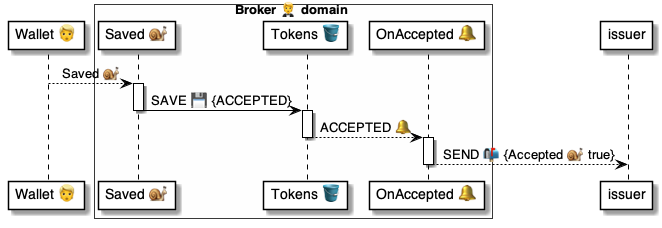
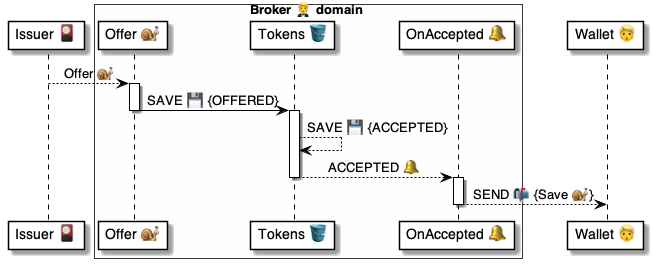
.

Changed region(s): [[0.0, 0.0, 1.0, 0.9825], [0.8576, 0.0614, 1.0, 0.2456], [0.1838, 0.6754, 0.2144, 0.7061]]

diff --git a/4 ⚙ Solution/41 🎭 Domain Roles/Issuers 🎴/🎴🅰 Issuer methods/Accepted 🤵🐌🎴/🎴 Accepted 🐌 msg.md b/4 ⚙ Solution/41 🎭 Domain Roles/Issuers 🎴/🎴🅰 Issuer methods/Accepted 🤵🐌🎴/🎴 Accepted 🐌 msg.md
@@ -21,7 +21,6 @@ Header:
 
 Body:
     Hook: <hook-uuid>
-    Token: <token-uuid>
 ```
 
 
@@ -30,8 +29,7 @@ Body:
 |Header |`From`|text| [Broker 🤵](<../../../../20 🧑🦰 UI/Brokers 🤵/🤵 Broker helper/🤵 Broker 🤲 helper.md>) | [`Offer@`](<../../../../20 🧑🦰 UI/Brokers 🤵/🤵🅰 Broker methods/Tokens 🎫 Offer 🎴🐌🤵/🤵 Offer 🐌 msg.md>)
 |       |`To`|string  | [Issuer 🎴](<../../🎴 Issuer/🎴🎭 Issuer role.md>) | [`Offer@`](<../../../../20 🧑🦰 UI/Brokers 🤵/🤵🅰 Broker methods/Tokens 🎫 Offer 🎴🐌🤵/🤵 Offer 🐌 msg.md>)
 ||`Subject`|text|`Token@Issuer` 
-| Body  | `Hook`| uuid | [Issuer 🎴](<../../🎴 Issuer/🎴🎭 Issuer role.md>) Hook | [`Offer@`](<../../../../20 🧑🦰 UI/Brokers 🤵/🤵🅰 Broker methods/Tokens 🎫 Offer 🎴🐌🤵/🤵 Offer 🐌 msg.md>)
-|| `Token`|text| [Token 🎫](<../../../../30 🧩 Data/Tokens 🎫/🎫 Token/🎫 Token.md>)  | [`Save@`](<../../../../20 🧑🦰 UI/Notifiers 📣/📣🅰 Notifier methods/Tokens 🎫 Save 🤵🐌📣/📣 Save 🐌 msg.md>) | [`Revise@`](<../../../../20 🧑🦰 UI/Brokers 🤵/🤵🅰 Broker methods/Tokens 🎫 Revise 🎴🐌🤵/🤵 Revise 🐌 msg.md>)
+| Body  | `Hook`| uuid | [Issuer 🎴](<../../🎴 Issuer/🎴🎭 Issuer role.md>) Hook | [`Offer@`](<../../../../20 🧑🦰 UI/Brokers 🤵/🤵🅰 Broker methods/Tokens 🎫 Offer 🎴🐌🤵/🤵 Offer 🐌 msg.md>) |  [`Revise@`](<../../../../20 🧑🦰 UI/Brokers 🤵/🤵🅰 Broker methods/Tokens 🎫 Revise 🎴🐌🤵/🤵 Revise 🐌 msg.md>)
 |
 
 

diff --git a/4 ⚙ Solution/20 🧑🦰 UI/Brokers 🤵/🤵🪣 Broker tables/Tokens 🎫 table/🪣🔔 4 Accepted/🤵 OnTokenAccepted 📃 handler.md b/4 ⚙ Solution/20 🧑🦰 UI/Brokers 🤵/🤵🪣 Broker tables/Tokens 🎫 table/🪣🔔 4 Accepted/🤵 OnTokenAccepted 📃 handler.md
@@ -13,22 +13,22 @@
 
 # Assert the inputs
 - ASSERT|$Token:
-    AllOf: ID, Issuer, Hook
-    UUIDs: ID, Hook
-    Texts: Issuer
+    AllOf: Wallet, Hook
+    UUIDs: Wallet, Hook
 
-# Inform the Issuer
+# Ask the wallet to save the token
 - SEND:
     Header:
-        To: $Token.Issuer
-        Subject: Accepted@Issuer
+        To: $Token.Wallet.Notifier
+        Subject: Save@Notifier
     Body:
-        Hook: $Token.Hook  # Hook @ Issuer
-        Token: $Token.ID   # Token.ID @ Broker
+        Wallet: $Token.Wallet.ID
+        Hook: $Token.Hook   # Hook at Issuer
+        Token: $Token.ID    # ID at Broker
 ```
 
 |Uses||
 |-|-
 | [Commands ⌘](<../../../../../35 💬 Chats/Scripts 📃/Command ⌘.md>) | [`ASSERT`](<../../../../../37 Scripts 📃/📃 Commands ⌘/⌘ for holders 🧠/ASSERT 🚦/🚦 ASSERT ⌘ cmd.md>) [`SEND`](<../../../../../37 Scripts 📃/📃 Commands ⌘/⌘ for messages 📨/SEND 📬/📬 SEND ⌘ cmd.md>)
-| [Messages 📨](<../../../../../30 🧩 Data/Messages 📨/📨 Message/📨 Message.md>) | [`Accepted@Issuer` 🅰 method](<../../../../../41 🎭 Domain Roles/Issuers 🎴/🎴🅰 Issuer methods/Accepted 🤵🐌🎴/🎴 Accepted 🐌 msg.md>)
+| [Messages 📨](<../../../../../30 🧩 Data/Messages 📨/📨 Message/📨 Message.md>) | [`Save@Notifier` 🅰 method](<../../../../Notifiers 📣/📣🅰 Notifier methods/Tokens 🎫 Save 🤵🐌📣/📣 Save 🐌 msg.md>)
 |

diff --git a/4 ⚙ Solution/20 🧑🦰 UI/Brokers 🤵/🤵🅰 Broker methods/Tokens 🎫 Revise 🎴🐌🤵/🤵 Revise 🐌 msg.md b/4 ⚙ Solution/20 🧑🦰 UI/Brokers 🤵/🤵🅰 Broker methods/Tokens 🎫 Revise 🎴🐌🤵/🤵 Revise 🐌 msg.md
@@ -26,7 +26,7 @@ Header:
     
 Body:
     Chat: <session-uuid>
-    Token: <token-uuid>
+    Hook: <hook-uuid>
     Action: SUSPEND
     Starting: 2025-10-10T13:45:00.000Z
     Ending: 2025-12-31T00:00:00.000Z
@@ -39,7 +39,7 @@ Body:
 | |`To`|text|[Broker 🤵 domain](<../../🤵 Broker helper/🤵 Broker 🤲 helper.md>) name
 | |`Subject`|text|`Revoke@Broker`
 |Body|`Chat`|text|[Chat 💬](<../../../../35 💬 Chats/Chats 💬/💬 Chat.md>) ID
-| |`Token`|text|[Token 🎫](<../../../../30 🧩 Data/Tokens 🎫/🎫 Token/🎫 Token.md>) ID
+| |`Hook`|text| Hook from [`Offer@Broker`](<../Tokens 🎫 Offer 🎴🐌🤵/🤵 Offer 🐌 msg.md>)
 | |`Action`| enum | `REVOKE` `SUSPEND` `ACTIVATE` `UPDATE`
 | |`Starting`| timestamp | Start date and time
 | |`Ending` | timestamp | Finish date and time (optional)

diff --git a/4 ⚙ Solution/37 Scripts 📃/📃 Commands ⌘/⌘ for methods 🤵/TRANSLATE 🈯/🈯 TRANSLATE ⌘ cmd.md b/4 ⚙ Solution/37 Scripts 📃/📃 Commands ⌘/⌘ for methods 🤵/TRANSLATE 🈯/🈯 TRANSLATE ⌘ cmd.md
@@ -3,6 +3,14 @@
 
 ## FAQ
 
+
+1. **What's the TRANSLATE command?**
+
+    The `TRANSLATE` command translates texts from one language to another using the [`Translate@Graph` 🅰 method](<../../../../45 🤲 Helper domains/Graphs 🕸/🕸🅰 Graph methods/👥🚀🕸 Translate/🕸 Translate 📃 handler.md>).
+
+    ---
+    <br/>
+
 1. **What's the syntax of TRANSLATE?**
 
     ```yaml

diff --git a/4 ⚙ Solution/20 🧑🦰 UI/Brokers 🤵/🤵🪣 Broker tables/Tokens 🎫 table/🪣🔔 5 Saved/🤵 OnTokenSaved 📃 handler.md b/4 ⚙ Solution/20 🧑🦰 UI/Brokers 🤵/🤵🪣 Broker tables/Tokens 🎫 table/🪣🔔 5 Saved/🤵 OnTokenSaved 📃 handler.md
@@ -23,8 +23,7 @@
         To: $Token.Issuer
         Subject: Accepted@Issuer
     Body:
-        Hook: $Token.Hook  # Hook @ Issuer
-        Token: $Token.ID   # Token.ID @ Broker
+        Hook: $Token.Hook  # Hook at Issuer
 ```
 
 |Uses||
